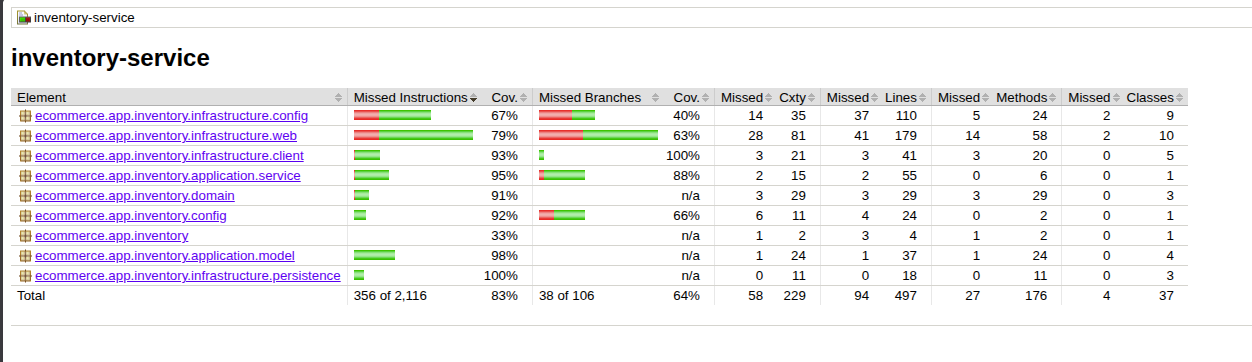
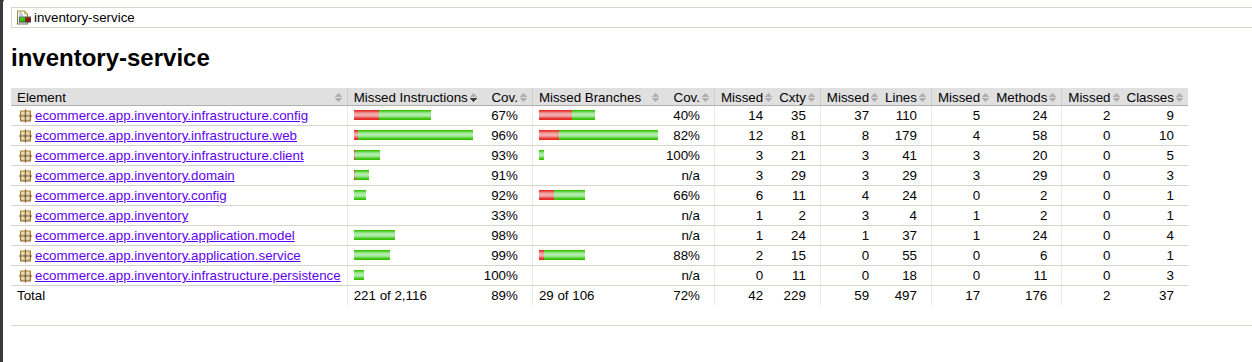
Update screen testing

diff --git a/inventory-service/src/test/java/ecommerce/app/inventory/infrastructure/web/InventoryControllerIntegrationTest.java b/inventory-service/src/test/java/ecommerce/app/inventory/infrastructure/web/InventoryControllerIntegrationTest.java
@@ -114,6 +114,21 @@ class InventoryControllerIntegrationTest {
 
 	@Test
 	@WithMockUser
+	void setInventory_withDataAttributes_usesNestedAvailable() throws Exception {
+		UUID productId = UUID.randomUUID();
+		when(productsServicePort.getProductExists(any(UUID.class))).thenReturn(Mono.just(productId));
+
+		String putBody = "{\"data\":{\"type\":\"inventory\",\"attributes\":{\"available\":5}}}";
+		mockMvc.perform(put("/api/v1/inventory/" + productId)
+						.contentType(JSON_API)
+						.accept(JSON_API)
+						.content(putBody))
+				.andExpect(status().isOk())
+				.andExpect(jsonPath("$.data.attributes.available").value(5));
+	}
+
+	@Test
+	@WithMockUser
 	void purchase_whenProductExistsAndStockSufficient_returns201() throws Exception {
 		UUID productId = UUID.randomUUID();
 		when(productsServicePort.getProductExists(any(UUID.class))).thenReturn(Mono.just(productId));
@@ -265,6 +280,40 @@ class InventoryControllerIntegrationTest {
 				.andExpect(content().contentTypeCompatibleWith(JSON_API))
 				.andExpect(jsonPath("$.data").isArray())
 				.andExpect(jsonPath("$.meta.totalRecords").exists());
+	}
+
+	@Test
+	@WithMockUser
+	void listPurchases_withPagination_returnsLinksPrevNext() throws Exception {
+		// Crear al menos 3 compras para que página 2 con size=1 tenga prev y next
+		UUID productId = UUID.randomUUID();
+		when(productsServicePort.getProductExists(any(UUID.class))).thenReturn(Mono.just(productId));
+		mockMvc.perform(put("/api/v1/inventory/" + productId)
+						.contentType(JSON_API)
+						.accept(JSON_API)
+						.content("{\"available\": 100}"))
+				.andExpect(status().isOk());
+		String purchaseBody = """
+				{"data":{"type":"purchases","attributes":{"productId":"%s","quantity":1}}}
+				""".formatted(productId);
+		for (int i = 0; i < 3; i++) {
+			mockMvc.perform(post("/api/v1/purchases")
+							.header(InventoryController.IDEMPOTENCY_KEY_HEADER, "idem-pagination-" + i)
+							.contentType(JSON_API)
+							.accept(JSON_API)
+							.content(purchaseBody))
+					.andExpect(status().isCreated());
+		}
+		// Página 2 de 3 (size=1) debe tener first, last, prev y next
+		mockMvc.perform(get("/api/v1/purchases")
+						.param("page[number]", "2")
+						.param("page[size]", "1")
+						.accept(JSON_API))
+				.andExpect(status().isOk())
+				.andExpect(jsonPath("$.links.first").exists())
+				.andExpect(jsonPath("$.links.last").exists())
+				.andExpect(jsonPath("$.links.prev").exists())
+				.andExpect(jsonPath("$.links.next").exists());
 	}
 
 	@Test

diff --git a/products-service/src/test/java/ecommerce/app/products/infrastructure/web/ValidationExceptionHandlerTest.java b/products-service/src/test/java/ecommerce/app/products/infrastructure/web/ValidationExceptionHandlerTest.java
@@ -1,0 +1,52 @@
+package ecommerce.app.products.infrastructure.web;
+
+import ecommerce.app.jsonapi.JsonApiDocument;
+import ecommerce.app.products.domain.SkuAlreadyExistsException;
+import org.junit.jupiter.api.Test;
+import org.springframework.http.HttpStatus;
+import org.springframework.http.ResponseEntity;
+
+import static org.assertj.core.api.Assertions.assertThat;
+
+class ValidationExceptionHandlerTest {
+
+	private final ValidationExceptionHandler handler = new ValidationExceptionHandler();
+
+	@Test
+	void handleSkuAlreadyExists_returns409WithJsonApiError() {
+		SkuAlreadyExistsException ex = new SkuAlreadyExistsException("SKU-1");
+
+		ResponseEntity<JsonApiDocument<?>> response = handler.handleSkuAlreadyExists(ex);
+
+		assertThat(response.getStatusCode()).isEqualTo(HttpStatus.CONFLICT);
+		assertThat(response.getBody()).isNotNull();
+		assertThat(response.getBody().getErrors()).hasSize(1);
+		assertThat(response.getBody().getErrors().get(0).getCode()).isEqualTo("SKU_ALREADY_EXISTS");
+		assertThat(response.getBody().getErrors().get(0).getStatus()).isEqualTo("409");
+	}
+
+	@Test
+	void handleGeneric_whenMessageNotNull_returns500WithMessage() {
+		Exception ex = new RuntimeException("Something broke");
+
+		ResponseEntity<JsonApiDocument<?>> response = handler.handleGeneric(ex);
+
+		assertThat(response.getStatusCode()).isEqualTo(HttpStatus.INTERNAL_SERVER_ERROR);
+		assertThat(response.getBody()).isNotNull();
+		assertThat(response.getBody().getErrors()).hasSize(1);
+		assertThat(response.getBody().getErrors().get(0).getCode()).isEqualTo("INTERNAL_ERROR");
+		assertThat(response.getBody().getErrors().get(0).getDetail()).isEqualTo("Something broke");
+	}
+
+	@Test
+	void handleGeneric_whenMessageNull_returns500WithDefaultDetail() {
+		Exception ex = new Exception();
+
+		ResponseEntity<JsonApiDocument<?>> response = handler.handleGeneric(ex);
+
+		assertThat(response.getStatusCode()).isEqualTo(HttpStatus.INTERNAL_SERVER_ERROR);
+		assertThat(response.getBody()).isNotNull();
+		assertThat(response.getBody().getErrors()).hasSize(1);
+		assertThat(response.getBody().getErrors().get(0).getDetail()).isEqualTo("An unexpected error occurred");
+	}
+}

diff --git a/inventory-service/src/test/java/ecommerce/app/inventory/infrastructure/web/InventoryExceptionHandlerTest.java b/inventory-service/src/test/java/ecommerce/app/inventory/infrastructure/web/InventoryExceptionHandlerTest.java
@@ -1,0 +1,48 @@
+package ecommerce.app.inventory.infrastructure.web;
+
+import ecommerce.app.inventory.infrastructure.client.ProductsServiceUnavailableException;
+import ecommerce.app.jsonapi.JsonApiDocument;
+import org.junit.jupiter.api.Test;
+import org.springframework.http.HttpStatus;
+import org.springframework.http.ResponseEntity;
+
+import static org.assertj.core.api.Assertions.assertThat;
+
+class InventoryExceptionHandlerTest {
+
+	private final InventoryExceptionHandler handler = new InventoryExceptionHandler();
+
+	@Test
+	void handleProductsUnavailable_returns503WithJsonApiError() {
+		ProductsServiceUnavailableException ex = new ProductsServiceUnavailableException("Unavailable", new RuntimeException());
+
+		ResponseEntity<JsonApiDocument<?>> response = handler.handleProductsUnavailable(ex);
+
+		assertThat(response.getStatusCode()).isEqualTo(HttpStatus.SERVICE_UNAVAILABLE);
+		assertThat(response.getBody()).isNotNull();
+		assertThat(response.getBody().getErrors()).hasSize(1);
+		assertThat(response.getBody().getErrors().get(0).getCode()).isEqualTo("PRODUCTS_SERVICE_UNAVAILABLE");
+		assertThat(response.getBody().getErrors().get(0).getStatus()).isEqualTo("503");
+	}
+
+	@Test
+	void handleGeneric_whenMessageNotNull_returns500WithMessage() {
+		Exception ex = new RuntimeException("Server error");
+
+		ResponseEntity<JsonApiDocument<?>> response = handler.handleGeneric(ex);
+
+		assertThat(response.getStatusCode()).isEqualTo(HttpStatus.INTERNAL_SERVER_ERROR);
+		assertThat(response.getBody()).isNotNull();
+		assertThat(response.getBody().getErrors().get(0).getDetail()).isEqualTo("Server error");
+	}
+
+	@Test
+	void handleGeneric_whenMessageNull_returns500WithDefaultDetail() {
+		Exception ex = new Exception();
+
+		ResponseEntity<JsonApiDocument<?>> response = handler.handleGeneric(ex);
+
+		assertThat(response.getStatusCode()).isEqualTo(HttpStatus.INTERNAL_SERVER_ERROR);
+		assertThat(response.getBody().getErrors().get(0).getDetail()).isEqualTo("An unexpected error occurred");
+	}
+}

diff --git a/inventory-service/src/test/java/ecommerce/app/inventory/infrastructure/web/SetInventoryRequestTest.java b/inventory-service/src/test/java/ecommerce/app/inventory/infrastructure/web/SetInventoryRequestTest.java
@@ -1,0 +1,60 @@
+package ecommerce.app.inventory.infrastructure.web;
+
+import org.junit.jupiter.api.Test;
+
+import static org.assertj.core.api.Assertions.assertThat;
+
+class SetInventoryRequestTest {
+
+	@Test
+	void getAvailableValue_whenDataAttributesAvailableSet_returnsNestedValue() {
+		SetInventoryRequest request = new SetInventoryRequest();
+		request.setAvailable(10);
+		SetInventoryRequest.DataHolder data = new SetInventoryRequest.DataHolder();
+		SetInventoryRequest.Attributes attrs = new SetInventoryRequest.Attributes();
+		attrs.setAvailable(5);
+		data.setAttributes(attrs);
+		request.setData(data);
+
+		assertThat(request.getAvailableValue()).isEqualTo(5);
+	}
+
+	@Test
+	void getAvailableValue_whenDataNull_returnsAvailable() {
+		SetInventoryRequest request = new SetInventoryRequest();
+		request.setAvailable(7);
+
+		assertThat(request.getAvailableValue()).isEqualTo(7);
+	}
+
+	@Test
+	void getAvailableValue_whenDataAndAvailableNull_returnsZero() {
+		SetInventoryRequest request = new SetInventoryRequest();
+
+		assertThat(request.getAvailableValue()).isZero();
+	}
+
+	@Test
+	void getAvailableValue_whenDataAttributesNull_returnsTopLevelAvailable() {
+		SetInventoryRequest request = new SetInventoryRequest();
+		request.setAvailable(3);
+		SetInventoryRequest.DataHolder data = new SetInventoryRequest.DataHolder();
+		data.setAttributes(null);
+		request.setData(data);
+
+		assertThat(request.getAvailableValue()).isEqualTo(3);
+	}
+
+	@Test
+	void getAvailableValue_whenDataAttributesAvailableNull_returnsTopLevelAvailable() {
+		SetInventoryRequest request = new SetInventoryRequest();
+		request.setAvailable(2);
+		SetInventoryRequest.DataHolder data = new SetInventoryRequest.DataHolder();
+		SetInventoryRequest.Attributes attrs = new SetInventoryRequest.Attributes();
+		attrs.setAvailable(null);
+		data.setAttributes(attrs);
+		request.setData(data);
+
+		assertThat(request.getAvailableValue()).isEqualTo(2);
+	}
+}

diff --git a/inventory-service/src/test/java/ecommerce/app/inventory/application/service/InventoryApplicationServiceTest.java b/inventory-service/src/test/java/ecommerce/app/inventory/application/service/InventoryApplicationServiceTest.java
@@ -27,6 +27,8 @@ import static org.mockito.Mockito.never;
 import static org.mockito.Mockito.verify;
 import static org.mockito.Mockito.when;
 
+import jakarta.persistence.OptimisticLockException;
+
 @ExtendWith(MockitoExtension.class)
 class InventoryApplicationServiceTest {
 
@@ -200,5 +202,22 @@ class InventoryApplicationServiceTest {
 		assertThat(saved.getProductId()).isEqualTo(PRODUCT_ID);
 		assertThat(saved.getQuantity()).isEqualTo(3);
 		assertThat(saved.getProcessedAt()).isNotNull();
+	}
+
+	@Test
+	void processPurchase_whenOptimisticLockException_returnsConflict() {
+		Inventory inv = new Inventory();
+		inv.setProductId(PRODUCT_ID);
+		inv.setAvailable(10);
+		inv.setReserved(0);
+		inv.setVersion(0L);
+		when(productsServicePort.getProductExists(PRODUCT_ID)).thenReturn(Mono.just(PRODUCT_ID));
+		when(inventoryRepository.findByProductIdForUpdate(PRODUCT_ID)).thenReturn(Optional.of(inv));
+		when(inventoryRepository.saveAndFlush(any(Inventory.class))).thenThrow(new OptimisticLockException());
+
+		PurchaseResult result = service.processPurchase(PRODUCT_ID, 3, null);
+
+		assertThat(result.getType()).isEqualTo(PurchaseResult.Type.CONFLICT);
+		assertThat(result.getErrorDetail()).contains("Concurrencia");
 	}
 }

diff --git a/inventory-service/src/test/java/ecommerce/app/inventory/infrastructure/client/ProductsServiceClientTest.java b/inventory-service/src/test/java/ecommerce/app/inventory/infrastructure/client/ProductsServiceClientTest.java
@@ -82,7 +82,7 @@ class ProductsServiceClientTest {
 		UUID productId = UUID.randomUUID();
 		server.enqueue(new MockResponse().setResponseCode(500).setBody("Internal Error"));
 
-		assertThatThrownBy(() -> client.getProductExists(productId).block())
+		assertThatThrownBy(() -> blockGetProductExists(client, productId))
 				.isInstanceOf(ProductsServiceUnavailableException.class)
 				.hasMessageContaining("Products service unavailable");
 	}
@@ -101,7 +101,11 @@ class ProductsServiceClientTest {
 				100
 		);
 
-		assertThatThrownBy(() -> shortTimeoutClient.getProductExists(productId).block())
+		assertThatThrownBy(() -> blockGetProductExists(shortTimeoutClient, productId))
 				.isInstanceOf(ProductsServiceUnavailableException.class);
+	}
+
+	private static UUID blockGetProductExists(ProductsServiceClient client, UUID productId) {
+		return client.getProductExists(productId).block();
 	}
 }

diff --git a/README.md b/README.md
@@ -206,8 +206,8 @@ Los módulos críticos (**application.service** e **infrastructure.web**) alcanz
 
 | Servicio           | Instrucciones (total) | Ramas (total) | application.service | infrastructure.web      |
 | ------------------ | ---------------------- | ------------- | -------------------- | ----------------------- |
-| **products-service** | 90%                    | 70%           | 100% instrucciones y ramas | 92% instrucciones, 76% ramas |
-| **inventory-service** | 86%                  | 68%           | 95% instrucciones, 88% ramas | 93% instrucciones, 78% ramas |
+| **products-service** | 91%                    | 70%           | 100% instrucciones y ramas | 94% instrucciones, 78% ramas |
+| **inventory-service** | 89%                  | 72%           | 99% instrucciones, 88% ramas | 96% instrucciones, 82% ramas |
 
 **products-service** (JaCoCo):
 
